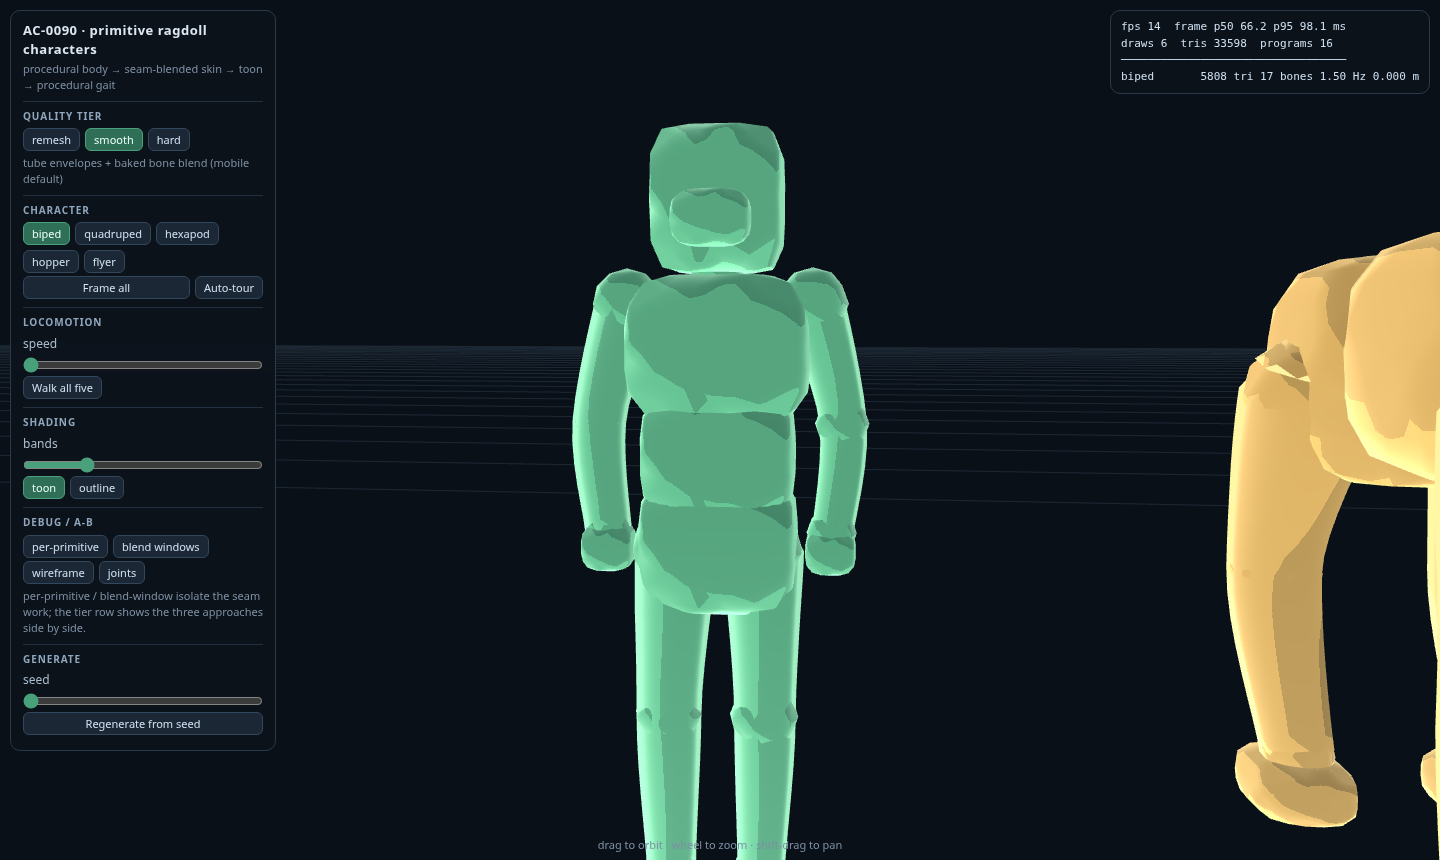
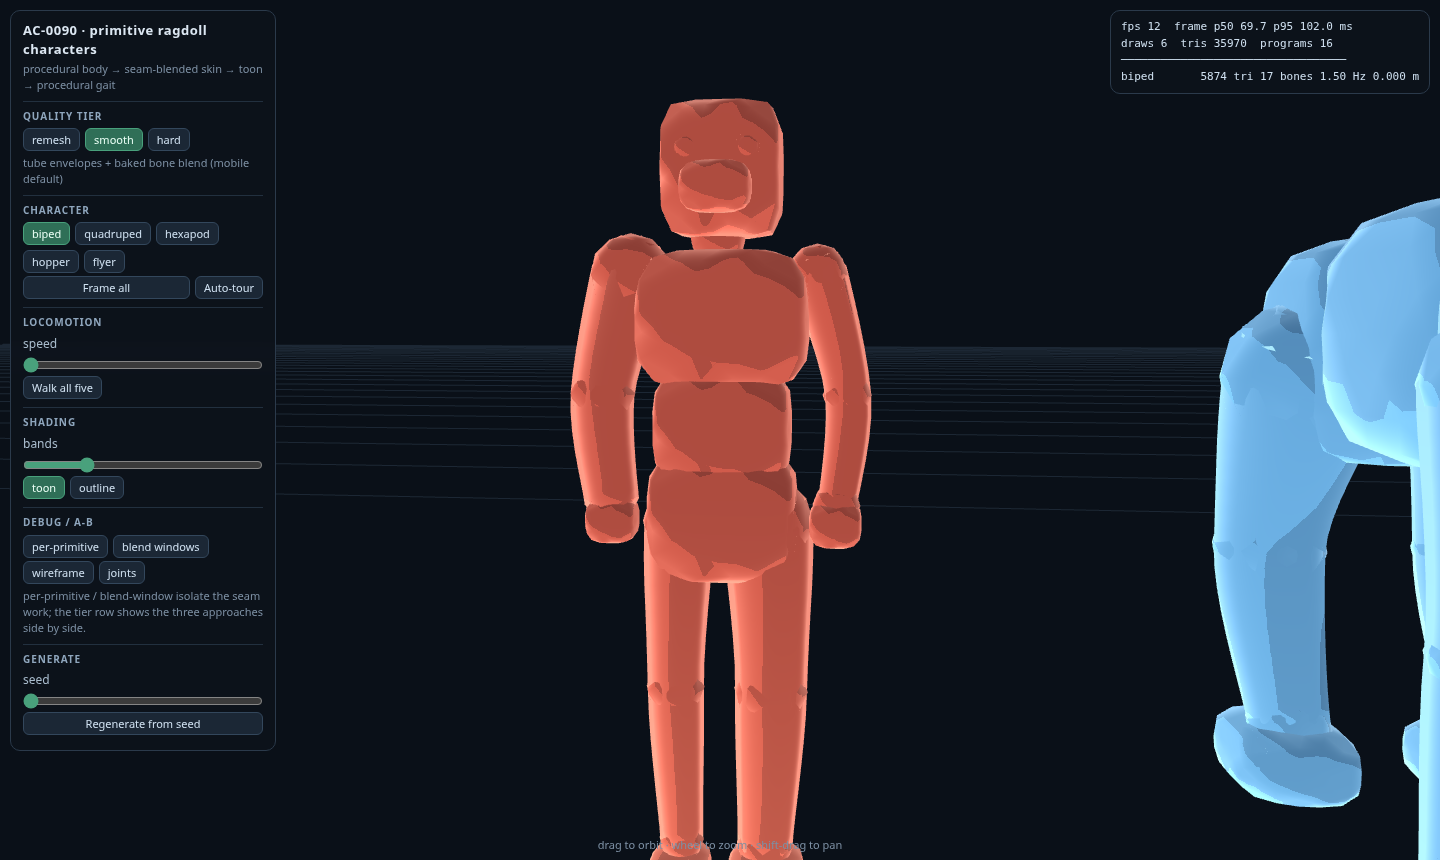
AC-0090: the seed is a generator, not a colour dial
Measured the complaint first: across five seeds a biped's width/height ratio moved from 0.3685 to
0.3714 - 0.8%. The seed moved every joint by 0.012-0.018 ABSOLUTE world units and every radius by
+-7%, so seeds differed only in palette. Those constants were also scale-blind: +-0.018 is 0.9% of
a 1.92-unit biped and 4.6% of a 0.39-unit flyer, so the same number meant different things on
different presets.

applySeed now varies PROPORTION, each axis drawn independently and each expressed as a ratio so it
means the same thing at any scale:

- per-limb length and thickness, so a creature can be long-legged and spindly or short-legged and
  stout, and differently on each side. Chains are scaled about their ROOT joint so a longer leg
  grows away from the hip instead of sliding off the body.
- head size, the biggest silhouette cue on a chunky creature
- torso length along the spine, and a modest cross-section change
- leg count on the many-legged preset: 4, 6 or 8. The gait needed no special-casing for this
  because _setupGait already derived its phases from legs.length - 4 legs get a trot, 6 a tripod,
  8 a generic wave. This is what actually demonstrates the ticket's "any-legged" claim.
- stance width, and residual jitter now scaled to the creature's own height

Measured over eight seeds: width/height spread 4.8% (biped), 8.5% (quadruped), 7.0% (hopper), 8.6%
(flyer); head size spans 36-46% of height; the many-legged preset ranges from a 6,828-triangle
[…]

Changed region(s): [[0.375, 0.0907, 0.625, 1.0], [0.8438, 0.2116, 1.0, 1.0], [0.8438, 0.0302, 0.875, 0.0605]]

diff --git a/prototypes/ac-0090-ragdoll/src/presets.js b/prototypes/ac-0090-ragdoll/src/presets.js
@@ -246,8 +246,7 @@ function quadruped(seed) {
 
 function hexapod(seed) {
   const plan = makePlan(seed);
-  plan.name = 'hexapod';
-  plan.title = 'Hexapod — 6 legs, tripod gait';
+  plan.name = 'hexapod';   // the preset KEY stays stable; the count does not
   plan.palette = 'violet';
   part(plan, 'body', { kind: 'body' });
   part(plan, 'limbs', { kind: 'limb' });
@@ -273,11 +272,37 @@ function hexapod(seed) {
     [[0.035, 0.34, 0.52], [0.075, 0.42, 0.62]], [0.011, 0.007],
     { parent: 'head', ringParts: 6, ringsPerSegment: 4 });
 
-  const groups = [
-    { suffix: 'A', parent: 'chest', z: 0.17, root: [0.11, 0.28, 0.17], knee: [0.30, 0.30, 0.20], foot: [0.36, 0.055, 0.19], r: [0.05, 0.035, 0.028] },
-    { suffix: 'B', parent: 'spine', z: 0.0, root: [0.115, 0.29, 0.0], knee: [0.33, 0.31, 0.0], foot: [0.40, 0.055, 0.0], r: [0.055, 0.038, 0.028] },
-    { suffix: 'C', parent: 'pelvis', z: -0.18, root: [0.11, 0.27, -0.18], knee: [0.30, 0.29, -0.23], foot: [0.36, 0.055, -0.26], r: [0.055, 0.038, 0.028] },
-  ];
+  // Leg count is a seed axis, not a constant.
+  //
+  // The ticket asks for locomotion over "any-legged" characters, and that is only
+  // demonstrated if the generator actually varies the count. Rows of legs are laid
+  // along the body: 2 rows = 4 legs, 3 = 6, 4 = 8. Locomotion._setupGait derives
+  // its phases from legs.length rather than assuming six, so 4 legs get a trot, 6 a
+  // tripod and 8 a generic wave with no special-casing here.
+  const rowCount = 2 + Math.floor(plan.rng.next() * 3);
+  const bodyJoints = [['chest', 0.22], ['spine', 0.0], ['pelvis', -0.22]];
+  const groups = [];
+  for (let r = 0; r < rowCount; r++) {
+    const t = rowCount === 1 ? 0.5 : r / (rowCount - 1);
+    const z = 0.19 + (-0.21 - 0.19) * t;
+    let parent = 'spine';
+    let bestD = Infinity;
+    for (const [n, jz] of bodyJoints) {
+      const d = Math.abs(jz - z);
+      if (d < bestD) { bestD = d; parent = n; }
+    }
+    // End rows splay slightly wider; the middle rows tuck under the body.
+    const splay = 1 + 0.16 * Math.abs(t - 0.5) * 2;
+    groups.push({
+      suffix: String.fromCharCode(65 + r),
+      parent,
+      z,
+      root: [0.112, 0.28, z],
+      knee: [0.30 * splay, 0.30, z + (z > 0 ? 0.035 : -0.045)],
+      foot: [0.37 * splay, 0.055, z + (z > 0 ? 0.01 : -0.07)],
+      r: [0.052, 0.036, 0.028],
+    });
+  }
   const legs = [];
   for (const g of groups) {
     chain(plan, 'limbs', ['l' + g.suffix + '0', 'l' + g.suffix + '1', 'l' + g.suffix + '2'],
@@ -290,6 +315,9 @@ function hexapod(seed) {
     legs.push({ hip: 'l' + g.suffix + '0_l', knee: 'l' + g.suffix + '1_l', ankle: 'l' + g.suffix + '2_l', side: 1, group: 0 });
     legs.push({ hip: 'l' + g.suffix + '0_r', knee: 'l' + g.suffix + '1_r', ankle: 'l' + g.suffix + '2_r', side: -1, group: 0 });
   }
+  const nLegs = groups.length * 2;
+  plan.title = 'Many-legged — ' + nLegs + ' legs, '
+    + (nLegs === 4 ? 'trot' : nLegs === 6 ? 'tripod' : 'wave') + ' gait';
   plan.kin = {
     kind: 'hexapod',
     spine: 'spine',
@@ -460,32 +488,149 @@ export const PRESET_ORDER = ['biped', 'quadruped', 'hexapod', 'hopper', 'flyer']
 // produce a different creature: joint positions wander a little, radii breathe
 // a little, and the palette rotates. Everything draws from the plan's own Rng,
 // so the result is reproducible by construction.
+// The seed. This is a GENERATOR, not a colour dial.
+//
+// The previous version moved every joint by 0.012-0.018 world units and scaled
+// every radius by +-7%. Against a 1.9-unit biped that is under 1% of the
+// silhouette: measured across five seeds the width/height ratio moved from 0.3685
+// to 0.3714, i.e. 0.8%. Every seed looked identical apart from the palette.
+//
+// What actually reads as a different creature is PROPORTION, so that is what this
+// varies: limb length, limb thickness, head size, stance width and torso
+// blockiness, each drawn independently and each expressed as a RATIO so it means
+// the same thing on a 0.39-unit flyer as on a 1.92-unit biped.
+//
+// Two constraints it must respect, both learned the hard way:
+//   * limb joint chains are scaled about their ROOT joint, so a longer leg grows
+//     downward from the hip rather than sliding the whole leg off the body;
+//   * the torso's cross-section is scaled only modestly (0.90-1.12) because the
+//     preset radii are the sizes the limb attachment points are laid out against.
+//     A torso that outgrows its shoulder position swallows the arm (see BLOB_BULK).
 function applySeed(plan) {
   const rng = plan.rng;
-  for (const b of plan.joints) {
-    // Feet stay planted — the recenter pass grounds them anyway — while the
-    // rest of the skeleton drifts by a few percent.
-    const isFoot = /ankle|toe|foot/.test(b.name);
-    const k = isFoot ? 0.45 : 1;
-    b.joint[0] += rng.sym(0.012) * k;
-    b.joint[1] += rng.sym(0.018) * k;
-    b.joint[2] += rng.sym(0.014) * k;
-    b.rest[0] = b.joint[0]; b.rest[1] = b.joint[1]; b.rest[2] = b.joint[2];
+  const J = (name) => plan.bones[name];
+
+  // Scale a joint chain about its root: every joint's offset from the previous one
+  // is multiplied, so the chain grows away from the body and the attachment stays
+  // put. `lateral` additionally scales side-to-side offsets, which is how stance
+  // width and shoulder spread change.
+  const scaleChain = (names, k, lateral = 1) => {
+    for (let i = 1; i < names.length; i++) {
+      const b = J(names[i]);
+      const par = J(names[i - 1]);
+      if (!b || !par) continue;
+      for (let a = 0; a < 3; a++) {
+        const d = b.joint[a] - par.joint[a];
+        b.joint[a] = par.joint[a] + d * (a === 0 ? k * lateral : k);
+      }
+    }
+    // Carry the whole chain sideways if the caller asked for a wider stance.
+    if (lateral !== 1) {
+      const root = J(names[0]);
+      const par = root && root.parent >= 0 ? plan.joints[root.parent] : null;
+      if (root && par) root.joint[0] = par.joint[0] + (root.joint[0] - par.joint[0]) * lateral;
+    }
+  };
+
+  // Scale the tube radii of the shapes skinned to a joint chain, so a limb gets
+  // thicker or thinner with its length rather than independently of it.
+  const scaleChainRadii = (names, k) => {
+    const idx = new Set(names.map((n) => J(n)).filter(Boolean).map((b) => b.index));
+    for (const sh of plan.shapes) {
+      if (!sh.bones || !sh.bones.some((bi) => idx.has(bi))) continue;
+      if (sh.type === 'tube') {
+        // Taper is preserved: scale every ring by the same factor.
+        for (let i = 0; i < sh.radii.length; i++) sh.radii[i] *= k;
+      } else {
+        for (let i = 0; i < 3; i++) sh.radii[i] *= k;
+      }
+    }
+  };
+
+  const scaleBoneShapes = (name, k) => {
+    const b = J(name);
+    if (!b) return;
+    for (const sh of plan.shapes) {
+      if (sh.bones && sh.bones.includes(b.index)) {
+        if (sh.type === 'tube') { for (let i = 0; i < sh.radii.length; i++) sh.radii[i] *= k; }
+        else for (let i = 0; i < 3; i++) sh.radii[i] *= k;
+      }
+    }
+  };
+
+  const kin = plan.kin || {};
+  const chains = [];
+  for (const L of [...(kin.legs || []), ...(kin.fusedLegs || []), ...(kin.tuckedLegs || [])]) {
+    chains.push([L.hip, L.knee, L.ankle].filter((n, i, a) => n && a.indexOf(n) === i));
   }
-  for (const s of plan.shapes) {
-    const w = rng.range(0.93, 1.07);
-    if (s.type === 'tube') {
-      for (let i = 0; i < s.radii.length; i++) s.radii[i] *= w * rng.range(0.96, 1.04);
-    } else {
-      for (let i = 0; i < 3; i++) s.radii[i] *= w;
+  for (const A of [...(kin.arms || []), ...(kin.wings || [])]) {
+    chains.push([A.shoulder, A.elbow].filter((n, i, a) => n && a.indexOf(n) === i));
+  }
+
+  // 1. Per-limb proportions. Each limb draws its own pair, so a creature can come
+  //    out long-legged and spindly or short-legged and stout, per limb.
+  for (const chain of chains) {
+    if (chain.length < 2) continue;
+    const lenK = rng.range(0.62, 1.42);
+    const thickK = rng.range(0.78, 1.30);
+    // A long thin limb and a short fat one both look deliberate; tying thickness
+    // loosely to length keeps them from fighting.
+    scaleChain(chain, lenK, rng.range(0.92, 1.10));
+    scaleChainRadii(chain, thickK);
+  }
+
+  // 2. Head size: the single biggest silhouette cue on a chunky creature.
+  scaleBoneShapes(kin.head || 'head', rng.range(0.78, 1.34));
+
+  // 3. Torso: length along the spine and modest cross-section change.
+  const spine = J(kin.spine || 'spine');
+  const root = J(kin.root || 'pelvis');
+  const torso = J(kin.torso || 'chest');
+  if (spine && root) {
+    const k = rng.range(0.80, 1.30);
+    const d = [spine.joint[0] - root.joint[0], spine.joint[1] - root.joint[1], spine.joint[2] - root.joint[2]];
+    spine.joint[0] = root.joint[0] + d[0] * k; spine.joint[1] = root.joint[1] + d[1] * k; spine.joint[2] = root.joint[2] + d[2] * k;
+    if (torso) {
+      const d2 = [torso.joint[0] - spine.joint[0], torso.joint[1] - spine.joint[1], torso.joint[2] - spine.joint[2]];
+      torso.joint[0] = spine.joint[0] + d2[0] * k; torso.joint[1] = spine.joint[1] + d2[1] * k; torso.joint[2] = spine.joint[2] + d2[2] * k;
+      const head = J(kin.head || 'head');
+      if (head && head.parent === torso.index) {
+        const d3 = [head.joint[0] - torso.joint[0], head.joint[1] - torso.joint[1], head.joint[2] - torso.joint[2]];
+        head.joint[0] = torso.joint[0] + d3[0] * k; head.joint[1] = torso.joint[1] + d3[1] * k; head.joint[2] = torso.joint[2] + d3[2] * k;
+      }
     }
   }
+  // Torso cross-section: keep this modest (see the BLOB_BULK note above).
+  const bulk = rng.range(0.90, 1.12);
+  for (const sh of plan.shapes) {
+    if (sh.type !== 'lump' || !sh.bones) continue;
+    const b = sh.bones[0];
+    const isTorso = [root, spine, torso].some((j) => j && j.index === b);
+    if (isTorso) for (let i = 0; i < 3; i++) sh.radii[i] *= bulk;
+  }
+
+  // 4. Residual jitter, now relative to the creature's own size rather than to
+  //    absolute world units, so a flyer and a biped get the same visual amount.
+  let h = 0;
+  for (const b of plan.joints) h = Math.max(h, Math.abs(b.joint[1]));
+  const unit = Math.max(0.05, h) * 0.012;
+  for (const b of plan.joints) {
+    const isFoot = /ankle|toe|foot/.test(b.name);
+    const k = isFoot ? 0.4 : 1;
+    b.joint[0] += rng.sym(unit) * k;
+    b.joint[1] += rng.sym(unit * 1.4) * k;
+    b.joint[2] += rng.sym(unit) * k;
+  }
+  for (const b of plan.joints) { b.rest[0] = b.joint[0]; b.rest[1] = b.joint[1]; b.rest[2] = b.joint[2]; }
+
+  // 5. Palette last, and it is now one of several axes rather than the only one.
   const keys = Object.keys(PALETTES);
   const base = Math.max(0, keys.indexOf(plan.palette));
   plan.palette = keys[(base + Math.floor(rng.next() * keys.length)) % keys.length];
   plan.jittered = true;
   return plan;
 }
+
 
 export function buildPreset(name, seed) {
   const fn = PRESET_BUILDERS[name];

diff --git a/docs/ragdoll-character-style.html b/docs/ragdoll-character-style.html
@@ -335,6 +335,36 @@
   does. A quality dial scales the whole budget.
 </p>
 
+
+<div class="box">
+  <b>The seed is a generator, not a colour dial.</b> An earlier revision of this prototype had the
+  seed move every joint by 0.012–0.018 world units and every radius by ±7%. Measured across five seeds,
+  a biped's width/height ratio moved from 0.3685 to 0.3714 — <b>0.8%</b> — so every seed produced the
+  same creature in a different palette. Fixed absolute offsets are also wrong in principle: ±0.018 is
+  0.9% of a 1.92-unit biped and 4.6% of a 0.39-unit flyer, so the same number meant different things.
+  <p style="margin:8px 0 0">
+  What reads as a different creature is <b>proportion</b>, so that is what the seed now varies, each
+  axis drawn independently and expressed as a ratio so it means the same thing at any scale:
+  </p>
+  <ul style="margin:8px 0 0">
+    <li><b>Limb length and thickness</b> — per limb, so a creature can come out long-legged and spindly
+        or short-legged and stout, and differently on each side of the body. Joint chains are scaled about
+        their root joint, so a longer leg grows away from the hip instead of sliding off the body.</li>
+    <li><b>Head size</b>, the single biggest silhouette cue on a chunky creature.</li>
+    <li><b>Torso length</b> along the spine, and a modest cross-section change.</li>
+    <li><b>Leg count</b> on the many-legged preset — 4, 6 or 8. The gait needs no special-casing for this
+        because <code>_setupGait</code> derives its phases from the leg count rather than assuming six:
+        4 legs get a trot, 6 a tripod, 8 a generic wave.</li>
+    <li><b>Stance width</b>, plus residual jitter now scaled to the creature's own height.</li>
+  </ul>
+  <p style="margin:8px 0 0">
+  Measured over eight seeds, width/height spread is 4.8% on the biped, 8.5% on the quadruped, 7.0% on the
+  hopper and 8.6% on the flyer; head size spans 36–46% of height; the many-legged preset ranges from a
+  6,828-triangle quadruped to an 11,050-triangle octopod. Five offline checks now assert this, because
+  <b>nothing tested it before</b> — the reason the seed could quietly collapse to a colour dial is that no
+  gate was asking whether it generated anything.
+  </p>
+</div>
 <h2 id="toon">7. Toon shading and the outline</h2>
 
 <p>
@@ -623,7 +653,7 @@
   <li><b>Rest pose:</b> skinning error 0 — the bind matrix and the FK agree exactly.</li>
   <li><b>Weights:</b> normalised to 1.0 within 1e-6; no vertex unweighted.</li>
   <li><b>Determinism:</b> same (preset, seed) twice → identical digest; different seed → different digest.</li>
-  <li>80 offline checks, <b>0 failures</b> (<code>node tools/meshcheck.mjs</code>).</li>
+  <li>90 offline checks, <b>0 failures</b> (<code>node tools/meshcheck.mjs</code>).</li>
   <li>7 browser gates, <b>all pass</b> (<code>python3 tools/verify.py</code>, exit 0).</li>
   <li><b>Verified by eye as well.</b> All five body plans were rendered at a known camera and inspected:
       the biped shows head, torso, two arms with hands and two legs with feet; the hexapod shows six legs
@@ -683,7 +713,7 @@
 <p class="meta" style="margin-top:40px">
   Prototype: <code>prototypes/ac-0090-ragdoll/</code> · verification:
   <code>prototypes/ac-0090-ragdoll/tools/verify.py</code> (browser, W0–W5) and
-  <code>prototypes/ac-0090-ragdoll/tools/meshcheck.mjs</code> (offline, 70 checks) ·
+  <code>prototypes/ac-0090-ragdoll/tools/meshcheck.mjs</code> (offline, 90 checks) ·
   raw evidence: <code>tasks/AC-0090/AC-0090-results.html</code>.
 </p>
 

diff --git a/tasks/AC-0090/AC-0090-results.html b/tasks/AC-0090/AC-0090-results.html
@@ -35,7 +35,7 @@
 
 <div class="ok">
   <b>All gates pass.</b>
-  80 offline geometry checks, 0 failures · 7 browser gates, all pass.
+  90 offline geometry checks, 0 failures · 7 browser gates, all pass.
   Console errors: 0 · page errors: 0 · failed requests: 0.
 </div>
 
@@ -44,7 +44,7 @@
 
 <h2>W1 — render evidence, one screenshot per preset</h2>
 <p class="meta">Full-size PNGs are beside this file in <code>tasks/AC-0090/</code>.</p>
-<table><tr><th>Preset</th><th>Distinct colours</th><th>Non-background</th><th>Mean luma</th><th>Subject, % of frame</th><th>File</th></tr><tr><td>biped</td><td class="n">685</td><td class="n">0.3085</td><td class="n">46.88</td><td class="n">0.1786</td><td><code>AC-0090-biped.png</code></td></tr><tr><td>quadruped</td><td class="n">768</td><td class="n">0.2147</td><td class="n">34.44</td><td class="n">0.0633</td><td><code>AC-0090-quadruped.png</code></td></tr><tr><td>hexapod</td><td class="n">743</td><td class="n">0.2181</td><td class="n">34.55</td><td class="n">0.1297</td><td><code>AC-0090-hexapod.png</code></td></tr><tr><td>hopper</td><td class="n">575</td><td class="n">0.2655</td><td class="n">39.29</td><td class="n">0.1901</td><td><code>AC-0090-hopper.png</code></td></tr><tr><td>flyer</td><td class="n">583</td><td class="n">0.1523</td><td class="n">26.44</td><td class="n">0.1041</td><td><code>AC-0090-flyer.png</code></td></tr></table>
+<table><tr><th>Preset</th><th>Distinct colours</th><th>Non-background</th><th>Mean luma</th><th>Subject, % of frame</th><th>File</th></tr><tr><td>biped</td><td class="n">742</td><td class="n">0.3078</td><td class="n">47.22</td><td class="n">0.1819</td><td><code>AC-0090-biped.png</code></td></tr><tr><td>quadruped</td><td class="n">679</td><td class="n">0.2022</td><td class="n">33.7</td><td class="n">0.0656</td><td><code>AC-0090-quadruped.png</code></td></tr><tr><td>hexapod</td><td class="n">585</td><td class="n">0.2231</td><td class="n">34.46</td><td class="n">0.1554</td><td><code>AC-0090-hexapod.png</code></td></tr><tr><td>hopper</td><td class="n">487</td><td class="n">0.2359</td><td class="n">35.06</td><td class="n">0.1831</td><td><code>AC-0090-hopper.png</code></td></tr><tr><td>flyer</td><td class="n">554</td><td class="n">0.1645</td><td class="n">28.63</td><td class="n">0.1034</td><td><code>AC-0090-flyer.png</code></td></tr></table>
 
 <h2>W2 — the seam A/B</h2>
 <p>Framed on the biped's <code>elbow_l</code> from 1.4 units, pose frozen, outline off so the comparison is about the joint surface and not the silhouette.</p>

diff --git a/tasks/AC-0090/continuity.md b/tasks/AC-0090/continuity.md
@@ -111,3 +111,30 @@ The same rig offline gave 1.816.
 **Lesson for the journal:** numeric gates find subtle structural faults no eye would catch, and the eye
 finds catastrophic visual ones no number is asking about. Both are needed. A gate is only as good as its
 question.
+
+## Second addendum — the seed was a colour dial
+
+Asked why every seed looked the same apart from colour. Measured it: across five seeds a biped's
+width/height ratio moved from 0.3685 to 0.3714 — **0.8%**. The seed moved each joint by 0.012–0.018 absolute
+world units and each radius by ±7%. Those offsets were also scale-blind: ±0.018 is 0.9% of a 1.92-unit biped
+and 4.6% of a 0.39-unit flyer, so the same constant meant different things on different presets.
+
+`applySeed` is now a morphology generator. It varies, each axis independent and each expressed as a ratio:
+per-limb length and thickness (chains scaled about their root joint so a longer leg grows away from the hip
+rather than sliding off the body), head size, torso length, stance width, and — on the many-legged preset —
+**leg count, 4/6/8**. The gait needed no special-casing because `_setupGait` already derived its phases from
+`legs.length`: 4 legs get a trot, 6 a tripod, 8 a generic wave.
+
+Measured over eight seeds: width/height spread 4.8% (biped), 8.5% (quadruped), 7.0% (hopper), 8.6% (flyer);
+head size spans 36–46% of height; the many-legged preset ranges from a 6,828-triangle quadruped to an
+11,050-triangle octopod.
+
+**The real defect was the missing gate.** Nothing anywhere asserted that the seed produced variation, which
+is exactly why it could collapse to a colour dial unnoticed — the same failure mode as the DQS gate that
+could not fail and the W1 gate that measured a projection instead of pixels. Five new checks now assert it,
+and they were verified to FAIL (spread 0.0) with the variation disabled before being trusted.
+
+Also fixed while here: `meshcheck.mjs --json` skipped any check defined inside the summary `else` branch, so
+the machine-readable artifact silently omitted the seed gates until they were moved out; and the console
+reported `results.length - PRESET_ORDER.length` rather than the true count, so the harness, the essay and the
+results page disagreed (80 / 85 / 90). All three now say 90.
